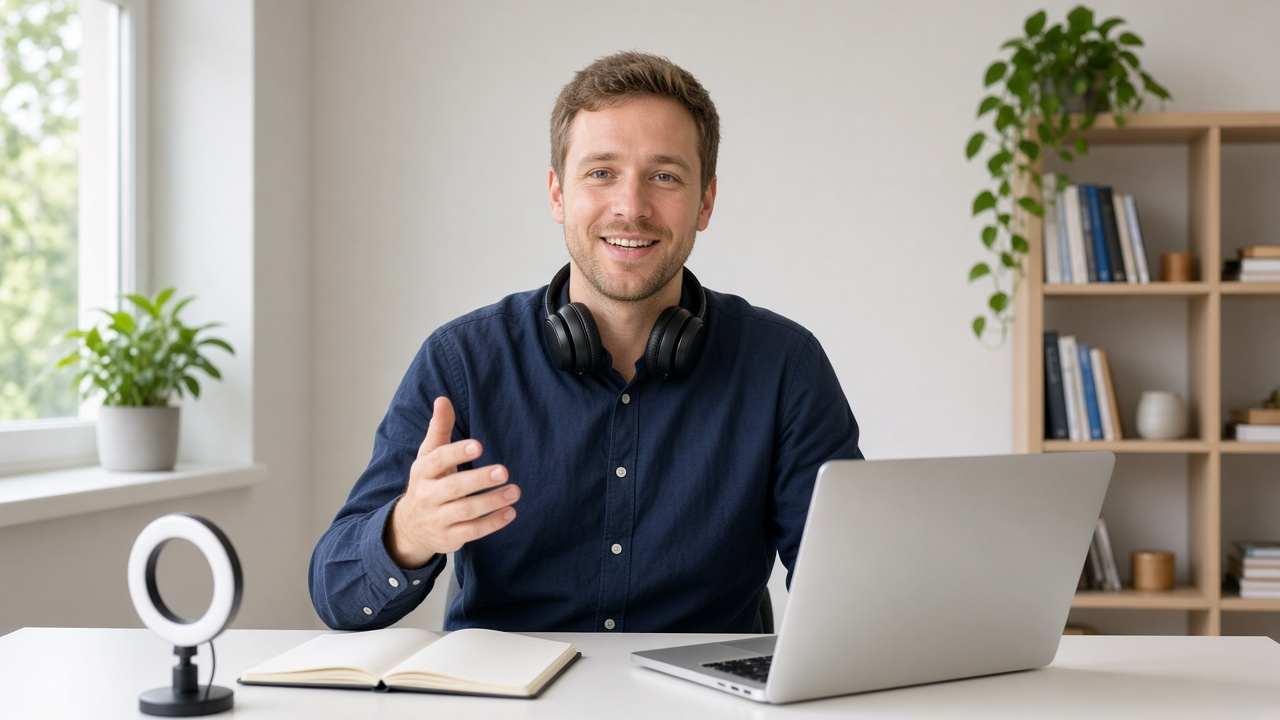
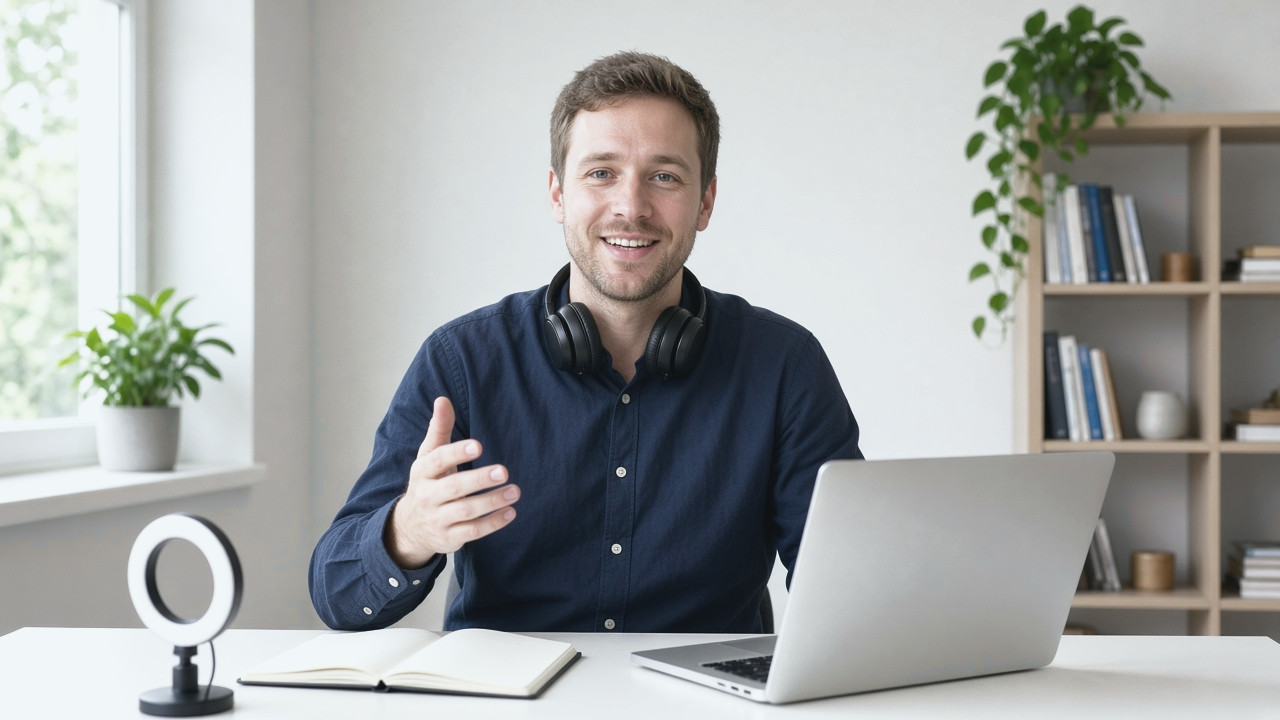
상품 사진 색을 맞추고 2번 카드에 인강·퀴즈·화상 흐름을 넣는다.
세 대표 사진과 아래 큰 사진을 같은 밝은 청록 톤으로 맞추고, 카드 사진은 가로로 두어 2번이 인강에서 퀴즈, 화상으로 이어지게 한다.

diff --git a/lib/widget/OnlinePlanCard.dart b/lib/widget/OnlinePlanCard.dart
@@ -9,7 +9,6 @@ class OnlinePlanCard extends StatelessWidget {
   final String priceLine;
   final Color color;
   final String imageAsset;
-  final Alignment imageAlignment;
   final bool selected;
   final bool current;
   final VoidCallback onTap;
@@ -22,7 +21,6 @@ class OnlinePlanCard extends StatelessWidget {
     required this.priceLine,
     required this.color,
     required this.imageAsset,
-    this.imageAlignment = Alignment.center,
     required this.selected,
     required this.onTap,
     this.current = false,
@@ -45,24 +43,20 @@ class OnlinePlanCard extends StatelessWidget {
               width: selected ? 2 : 1,
             ),
           ),
-          child: Row(
+          child: Column(
             crossAxisAlignment: CrossAxisAlignment.start,
             children: [
               ClipRRect(
-                borderRadius: BorderRadius.circular(10),
-                child: Image.asset(
-                  imageAsset,
-                  width: 84,
-                  height: 84,
-                  fit: BoxFit.cover,
-                  alignment: imageAlignment,
+                borderRadius: BorderRadius.circular(12),
+                child: AspectRatio(
+                  aspectRatio: 1200 / 520,
+                  child: Image.asset(
+                    imageAsset,
+                    fit: BoxFit.cover,
+                  ),
                 ),
               ),
-              SizedBox(width: 12),
-              Expanded(
-                child: Column(
-                  crossAxisAlignment: CrossAxisAlignment.start,
-                  children: [
+              SizedBox(height: 12),
               Row(
                 children: [
                   Container(
@@ -141,9 +135,6 @@ class OnlinePlanCard extends StatelessWidget {
                   fontSize: 12,
                   fontWeight: FontWeight.w700,
                   color: Palette.grey500,
-                ),
-              ),
-                  ],
                 ),
               ),
             ],

diff --git a/lib/pages/SchoolOnlineCurriculumPage.dart b/lib/pages/SchoolOnlineCurriculumPage.dart
@@ -303,8 +303,7 @@ class _SchoolOnlineCurriculumPageState
         summary: '문법 빌드업과 유용한 표현. 퀴즈로 완성합니다.',
         priceLine: '레벨별 안내 99,000원~',
         color: Palette.primary,
-        imageAsset: 'assets/lecture-quiz-screen.jpg',
-        imageAlignment: const Alignment(0.72, -0.25),
+        imageAsset: 'assets/plan-card-lecture.jpg',
         selected: _highlightedPlan == OnlinePlan.lecture,
         onTap: () => _selectPlan(OnlinePlan.lecture),
       ),
@@ -314,8 +313,7 @@ class _SchoolOnlineCurriculumPageState
         summary: '인강과 퀴즈를 다지고, 1:1 화상으로 말합니다.',
         priceLine: '레벨별 180,000원~',
         color: Palette.secondaryDark,
-        imageAsset: 'assets/curriculum-service-overview.jpg',
-        imageAlignment: const Alignment(0.55, -0.05),
+        imageAsset: 'assets/plan-card-bundle.jpg',
         selected: _highlightedPlan == OnlinePlan.bundle,
         current: true,
         onTap: () => _selectPlan(OnlinePlan.bundle),
@@ -326,8 +324,7 @@ class _SchoolOnlineCurriculumPageState
         summary: '인강 없이, 나에게만 집중하는 실전 회화.',
         priceLine: '1회 ${OnlinePlan.won(OnlinePlan.speakingSessionPrice)}',
         color: Palette.accent,
-        imageAsset: OnlineCourse.speaking.imageAsset,
-        imageAlignment: const Alignment(0, -0.12),
+        imageAsset: 'assets/plan-card-speaking.jpg',
         selected: _highlightedPlan == OnlinePlan.speaking,
         onTap: () => _selectPlan(OnlinePlan.speaking),
       ),
